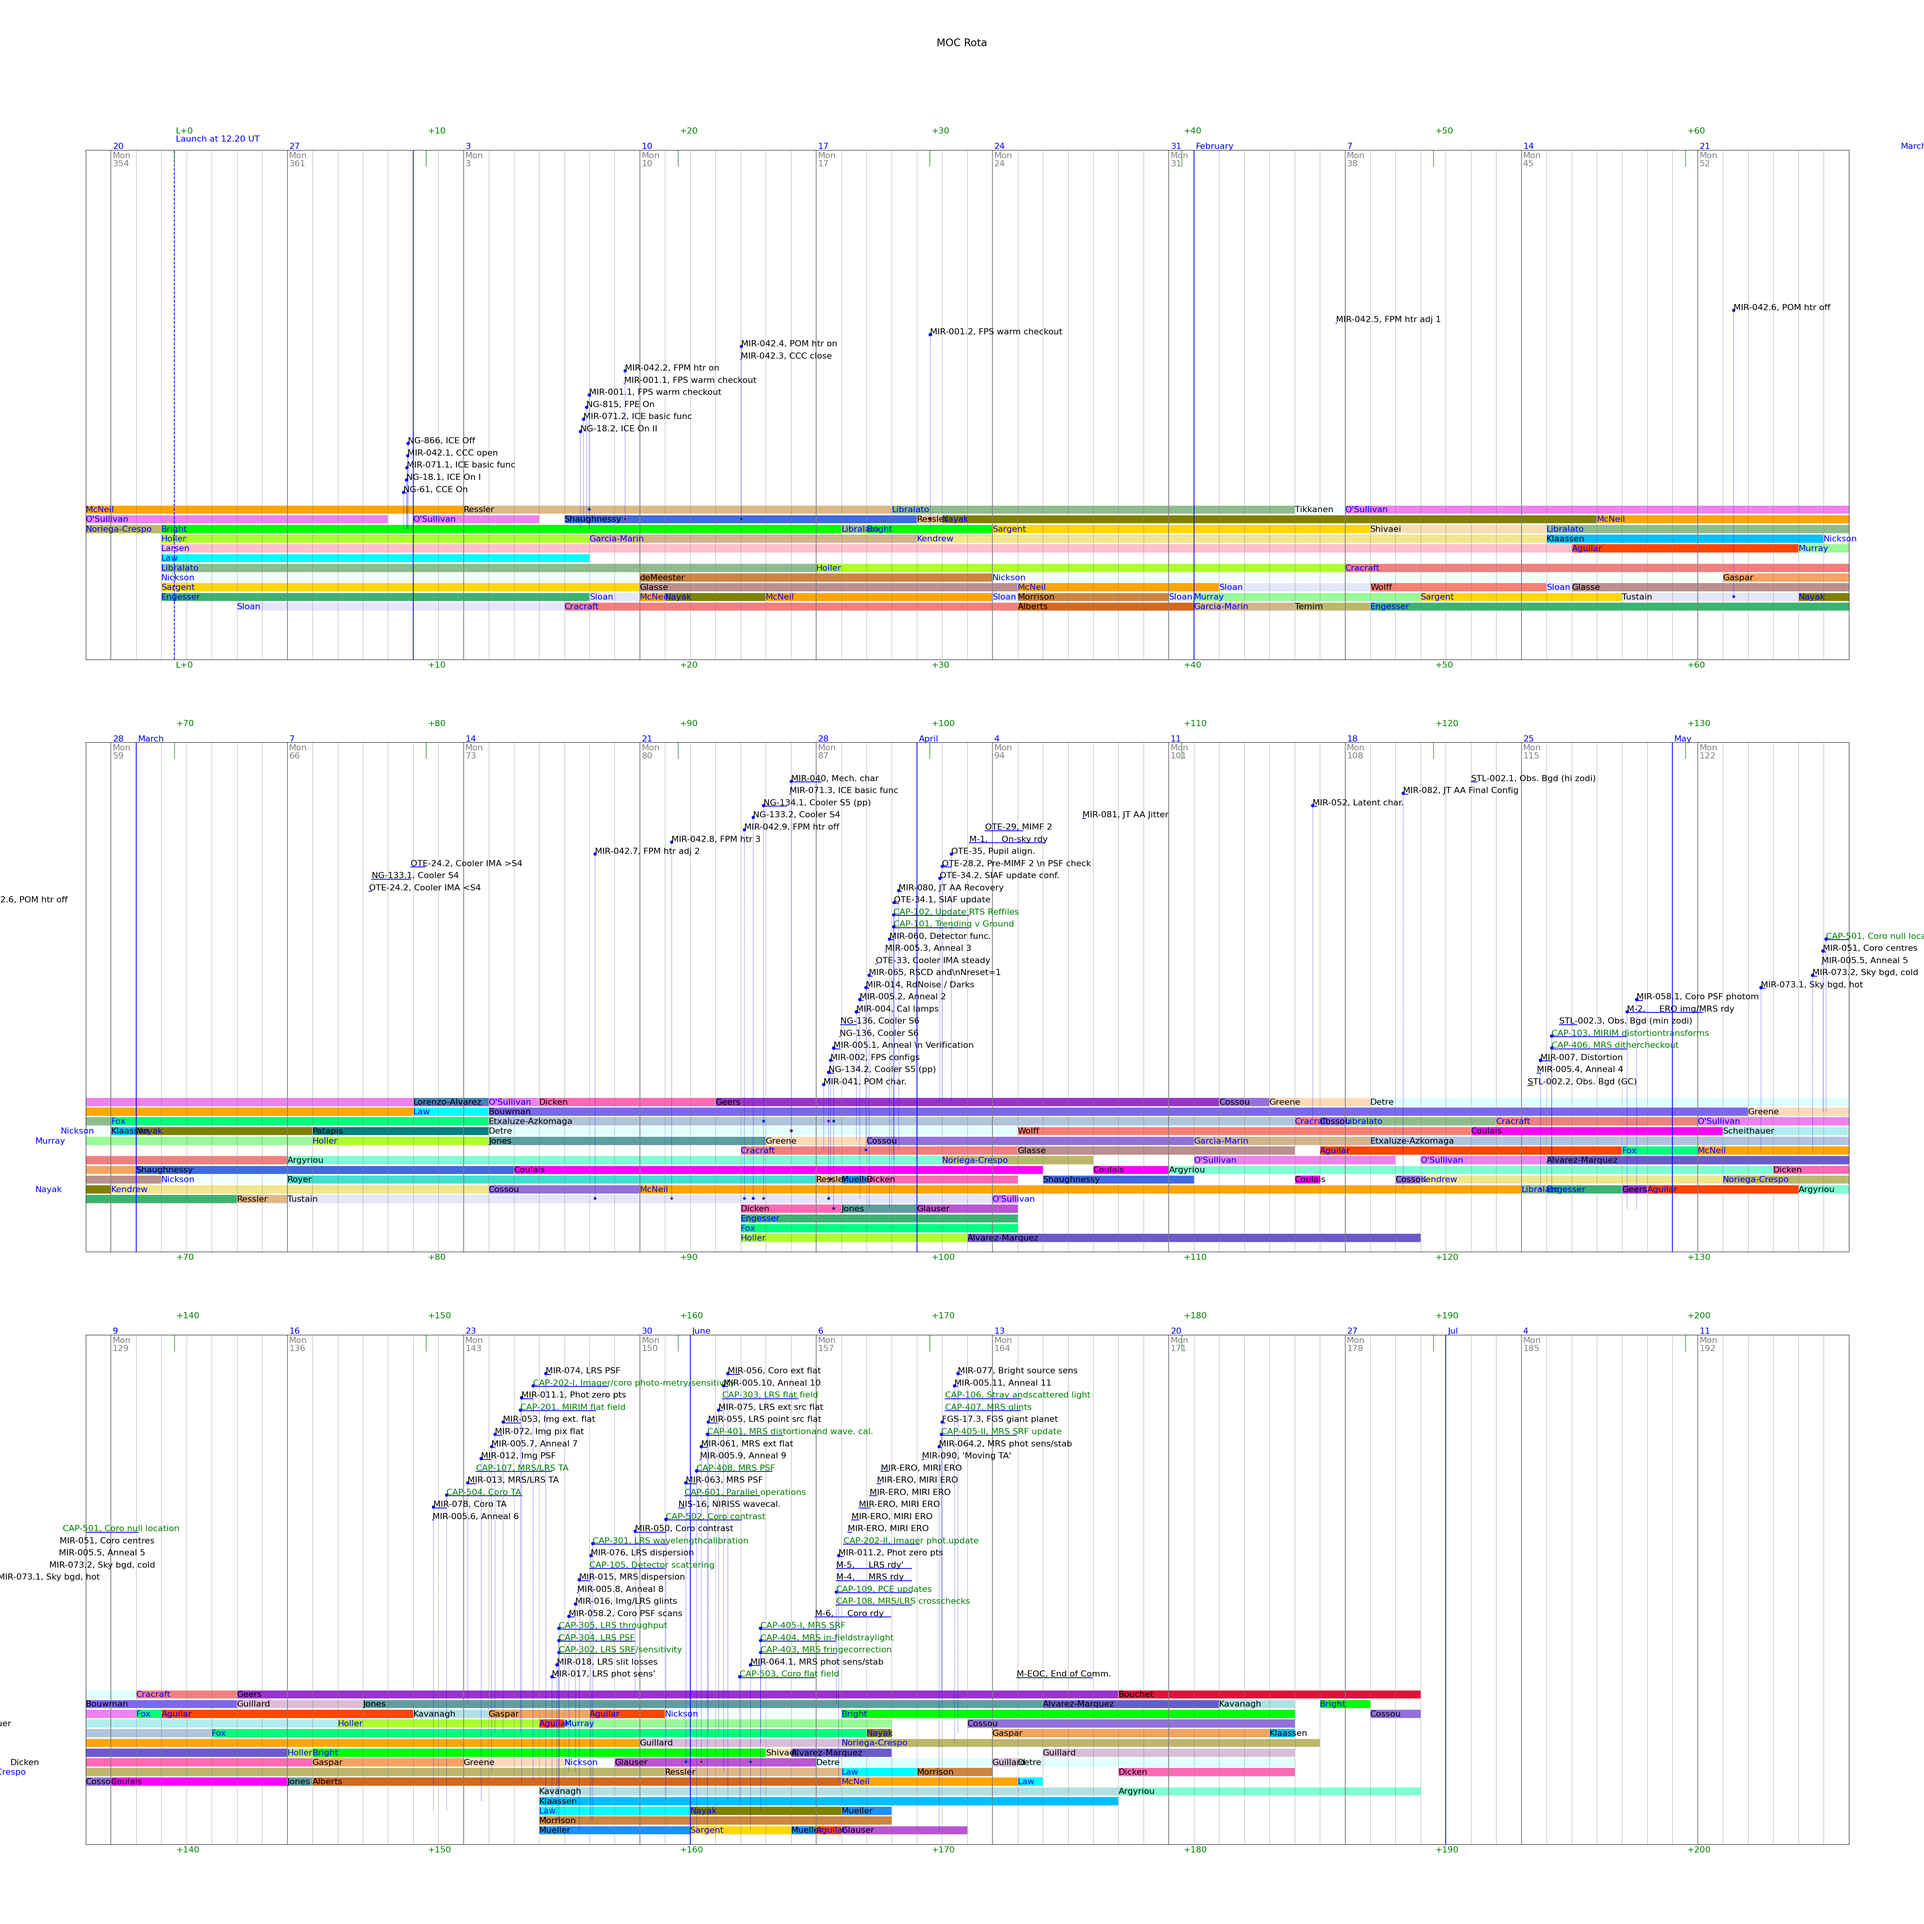
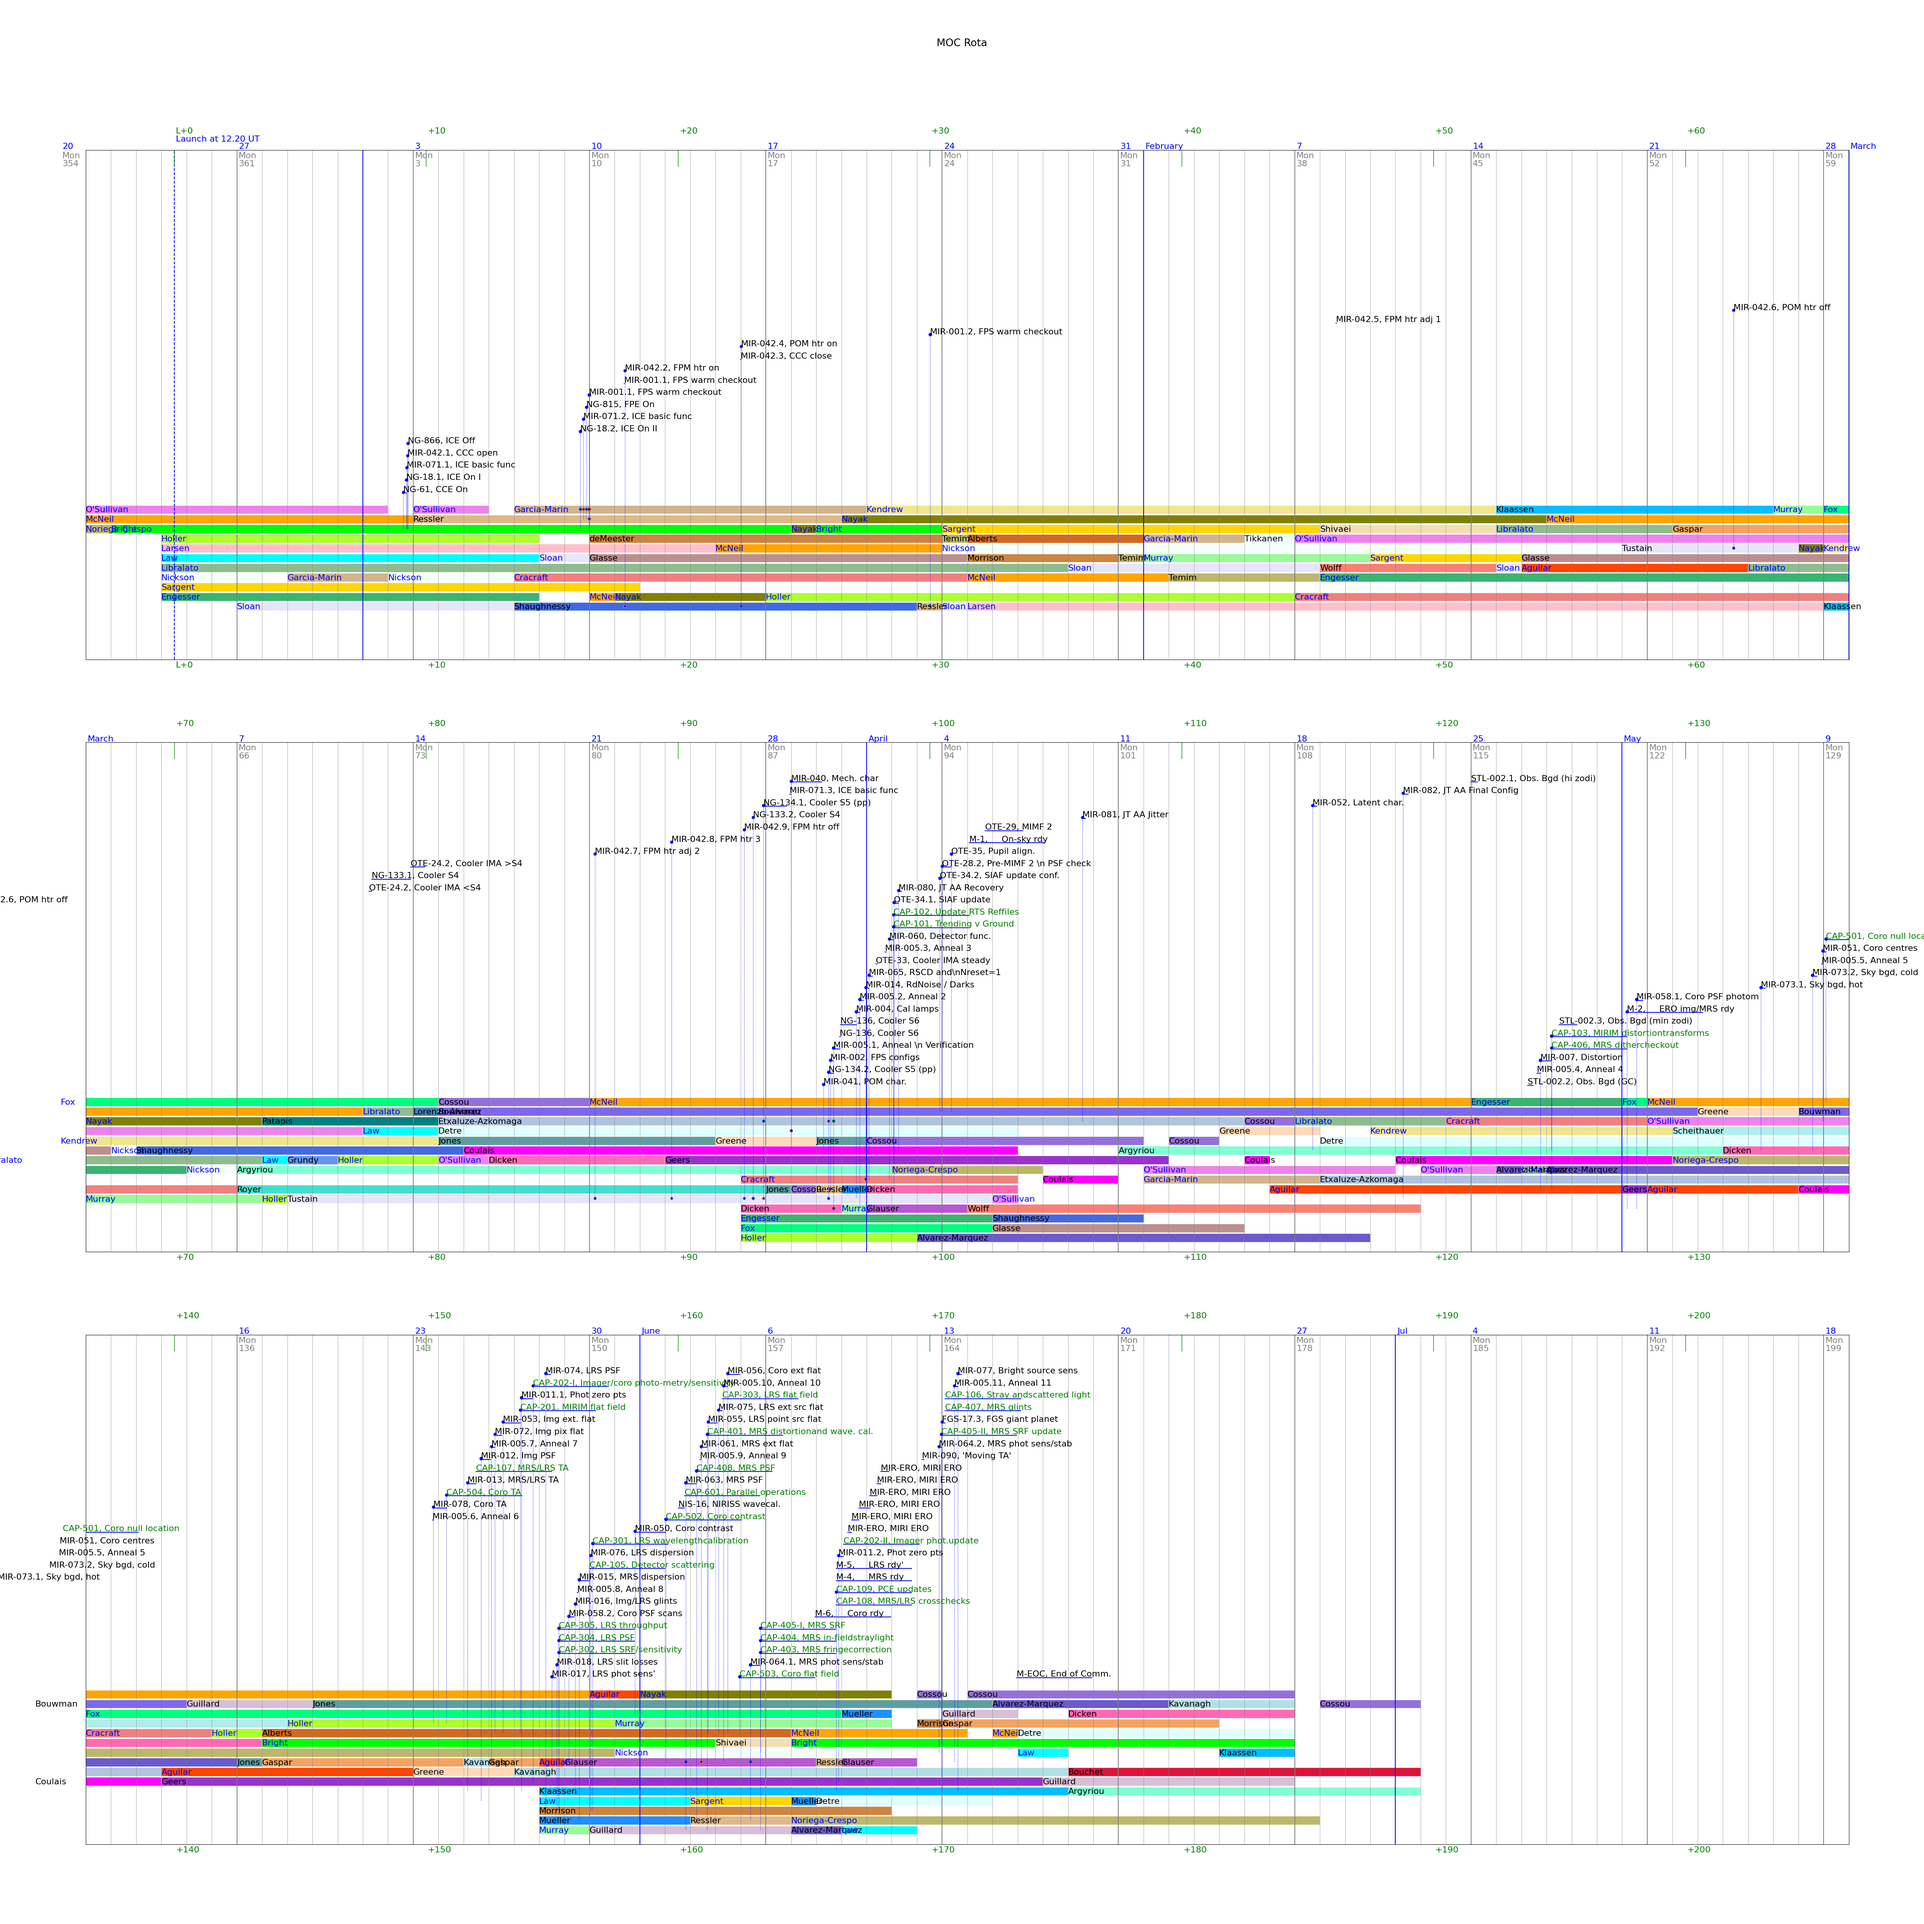
14/12/21 - Updates for Stacey B., Javier, Tim, Bryan S., Sam, 15/12/21 - Changed launch date to 24/12.  Updates for Bryony, RAL, Maca, Brian (in April/May), Stacey A.

Changed region(s): [[0.0312, 0.2496, 0.9672, 0.3432], [0.0312, 0.5616, 0.9672, 0.6552], [0.0312, 0.8736, 0.7488, 0.9672]]

diff --git a/source/shift_plan.py b/source/shift_plan.py
@@ -17,7 +17,7 @@ class ShiftPlan:
     """
     month_names = ['January', 'February', 'March', 'April', 'May', 'June',
                    'Jul', 'Aug', 'Sep', 'Oct', 'November', 'December']
-    launchyear, launchmonth, launchdate, launchhour = 2021, 12, 22, 12.20
+    launchyear, launchmonth, launchdate, launchhour = 2021, 12, 24, 12.20
     launchdate_last_monday = 13             # Date of month of the last Monday before launch
     start_md, end_md = -3, 190
     n_days = end_md - start_md + 1
